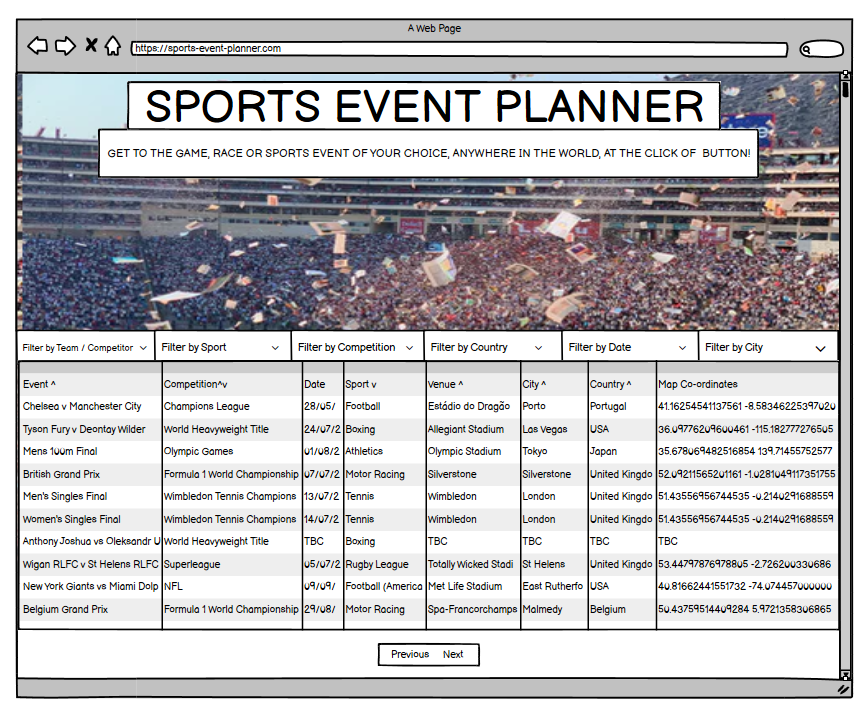
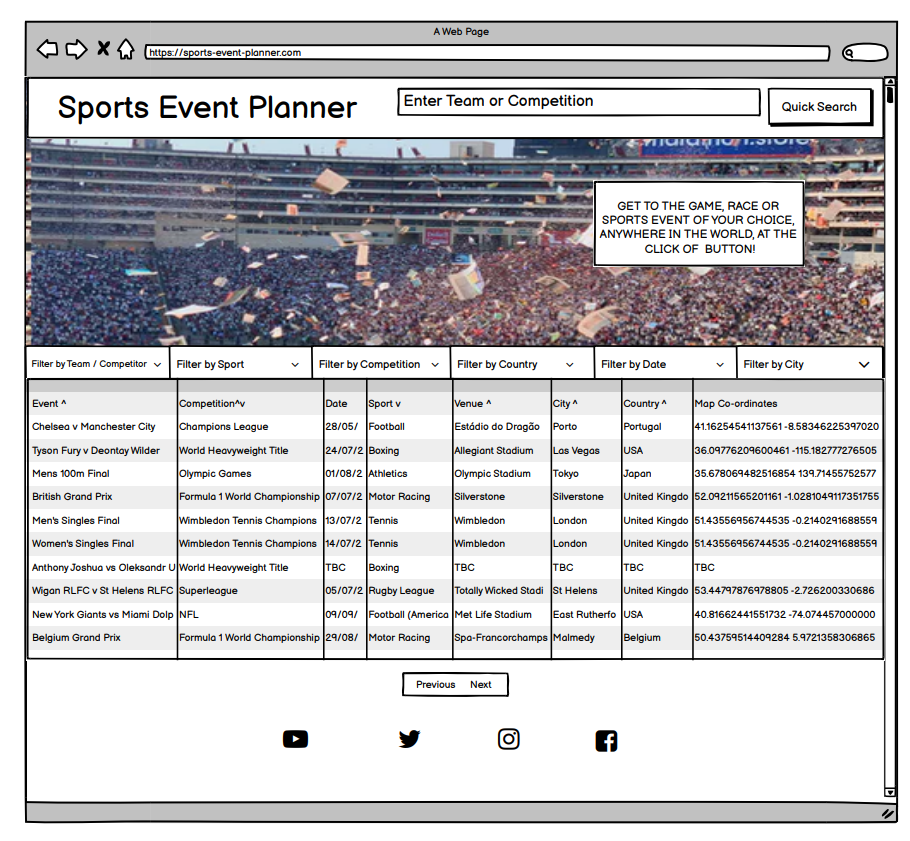
docs: README file updated - surface section partially completed.

diff --git a/index.html b/index.html
@@ -450,7 +450,7 @@
 
 
     <button onclick="buildFilterSearchQuery()" id="filter-submit-button" class="submit-button even" type="button">
-      Search
+      Start Filter Search
     </button>
 
     <button id="clear-filters-button" class="btn btn-secondary">

diff --git a/README.md b/README.md
@@ -103,10 +103,12 @@ Three variations are provided as examples of differing screen size layouts, name
 
 ### Wire-frames
 Web browser view
+
 ![Desktop Wireframe](https://github.com/AndyB-WHG/sports-event-planner/blob/master/documentation-assets/wireframe-images/desktopWireframe.PNG)
 
 Mobile & Tablet browser view
-![Mobile & Table Wireframes](https://github.com/AndyB-WHG/sports-event-planner/blob/master/documentation-assets/wireframe-images/mobileTabletExtendedWireFrames2.PNG)
+
+![Mobile & Table Wireframes](https://github.com/AndyB-WHG/sports-event-planner/blob/master/documentation-assets/wireframe-images/mobileTabletExtendedWireFrames.PNG)
 
 
 
@@ -115,40 +117,35 @@ Mobile & Tablet browser view
   [Go to the top](#table-of-contents)
 
 ### Colours
-Please find the colours schemes that I used [here](https://coolors.co/34495e-ffffff-e74c3c-3a3a3a-fafafa).
+Colours used are:
+
+#28a745 (Green) - used on buttons to compliment the grass within the Hero Image.
+#393837 (Charcoal Grey) - implemented within the Table Header to blend with the Filter and Table text and to tie in with the darker section of the Hero Image but with a softer shade to be easier on the eye.  Also provides a clear differentiation between the filter and table sections.
+
 
 ### Typography
-I decided to use Roboto as my font of choice with sans serf as my backup font for browsers that might not support Roboto.
+Font family for the majority of the site is 'Exo'.  
+The only exceptions are the Filter Buttons which are styled using the 'Play' font to provide contrast and interest against the Table section.
 
 <a name="features"></a>
 # 2. Features
   [Go to the top](#table-of-contents)
 
-### All pages:
-- Navigation bar is placed at the top of the screen, for ease of use and consistency. It has a hover effect and changes colour to improve the user experience. The page that you have selected also highlights red so the user knows exactly which page they are on.
-- Social media links, - all links are placed at the bottom of each page in the footer. All links open in a new tab.
+### Header Section:
+- Company Brand - placed prominently at top left.
+- Quick Search Input Box - prompts users to search for a team or competition of interest.  Aids first time visitors providing an easy, intuitive first step.
+- Quick Search button - highlighted in green for subconscious positive affirmation of use.
+- Loading GIF - appears during initial page load whilst suggestions are loaded from the linked API - suggestions then populate the Quick Search Input Box to help the user with potential searches.
 - Logo/text - a Sir Alex Ferguson logo is also placed on the top right of each page. This gives the context that the website is about him.
 
-### Landing page:
-- Main image - a large image that shows who the website is about.
-- Summary - a summary of what Sir Alex achieved.
-- Video - an embedded tribute video from youtube that gives the user the multimedia experience. This helps the user to be engaged with the website.
+### Hero Image Section:
+- Emotive atmospheric image of a packed sports stadium used to invoke positivity, excitement and urgency.
+- 'Call-Out' message both informs the user of the website's purpose whilst promoting immediate action.
 
-### Career page:
-- Overall statistics - a small bordered box that shows his managerial career stats.
-- Timeline - this element shows his career in a chronological experience. Reading from the top (when he started his career) to the bottom (when he finishes his career). This section tells you which clubs he has managed and a summary of what he achieved.
-- Club logos - These images add a visual to UI and improving UX as it's not just text on the page.
+### Filter Section
 
-### Testimonials page:
-- Card style view - this gives the user an easy to read card view that breaks information down into small sections. The user can read from card to card.
-- Card images - all images are of the same size, giving the UI consistency. This also gives the context of who the quote was from.
-- Card quotes - short quotes about Sir Alex admiring him. These quotes are from players who played under him and other managers giving credit.
+- Seven filter buttons give the user the ability the narrow and refine searches.  Searches extend 
 
-### Gallery page:
-- Collage images - these images are placed in a collage design. This allows me to place multiple sized images to the given screen size. The images show the success and happiness he had in the game.
-
-### Contact page:
-- Contact form - this gives the user the ability to message me for any issues they are having with the site, any suggestions of improvement and to give their opinions on any other manager that could potentially take his place.
 
 <a name="technologies-used"></a>
 ## 3. Technologies Used
